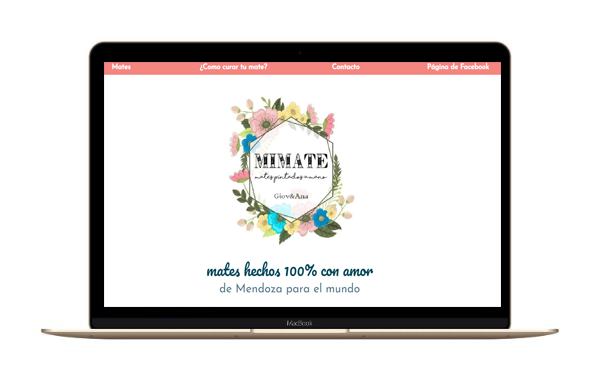
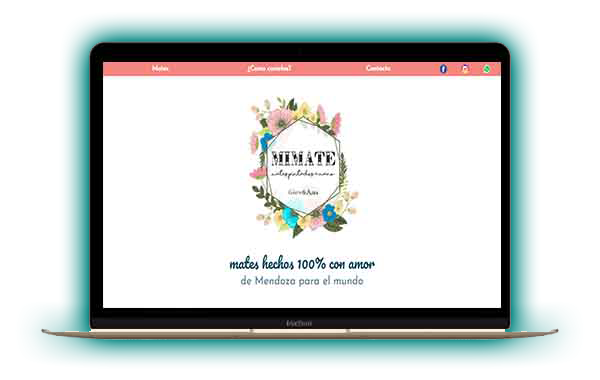
cambiado el tema a azul. arregladas imagenes de mis trabajos. y otras cosas de css

Changed region(s): [[0.06, 0.0289, 0.93, 0.9553], [0.36, 0.2605, 0.6, 0.6368], [0.33, 0.6658, 0.63, 0.7816]]

diff --git a/estilos.css b/estilos.css
@@ -3,7 +3,11 @@
 body{
     /*siempre es bueno poner el margin 0 al principio para quitar los amrgenes que vienen por defecto que nos ocupan lugar al dope*/
     margin: 0;
-    font-family: 'Poppins', sans-serif;
+    font-family: 'Baloo Chettan 2', cursive;
+    font-size: 19px;
+    background-color: rgb(11, 21, 49);
+    color: rgb(103, 171, 202);
+    
 }
 
 header .contenedor{
@@ -19,13 +23,16 @@ header .contenedor{
 /*debo llamar a la etiqueta padre para ordenar los elementos de la lista. le tengo que poner clase al ul, el display flex lo que hizo fue poner un item al aldo del otro en vez de uno arriba del otro.*/
 
 
-.lista-menu {
-    color: #001;
+.lista-menu a {
+    color: rgb(4, 42, 114);
+   
 }
+
+
 
 header ul {
     display: flex;
-    color: white;
+    /*color: white;*/
     text-decoration: solid;  
 }
 
@@ -79,6 +86,8 @@ header {
     background-size: cover;
   
 
+
+   
 }
 
 h1 {
@@ -141,6 +150,7 @@ h3 {
     text-align: center;
     font-size: 55px;
     font-weight: bold;
+    color: rgb(79, 160, 235);
     /*margin-top: 100px;    */
 }
 
@@ -208,7 +218,7 @@ h3 {
     /*en google pongo linear gradient css y me sale para armarlo ahi*/
     background: linear-gradient(to top, #0D0D0D,#1D64F2);
     /*en google pongo box shadow generator y lo configuro ahi*/
-    box-shadow: 0 12px 30px 0 #242326;
+    box-shadow: 0 12px 30px 0 #5b09ff;
 }
 
 .ondas {
@@ -217,6 +227,7 @@ h3 {
     /*como sabe la imagen wave donde es el 0? porque le pose position : relative a la clase servicio que es la que tiene la position relative*/
     left: 0;
     bottom: 0;
+    width: 100%;
 
 }
 
@@ -285,10 +296,7 @@ span {
 
 /*.........................SAECCION BLOG.............................*/
 
-#blog {
 
-    background: #F9FAFC;
-}
 
 #blog .contenedor-publicaciones {
 
@@ -300,7 +308,7 @@ span {
 
     width: 30%;
     /*recordar que la sombre la puedo generar en la pag*/
-    box-shadow: 1px 1px 14px #ccc;
+    box-shadow: 1px 1px 14px rgb(75, 62, 255);
 }
 
 #blog img {
@@ -308,8 +316,10 @@ span {
 }
 
 #blog .contenido {
-    background: #FFF;
+    background: rgb(8, 87, 133);
     padding: 20px;
+    height: 92%;
+    color: white;
 }
 
 #blog h4 {
@@ -319,7 +329,7 @@ span {
 }
 
 #blog p {
-    color: #5A6169;
+    color: rgb(142, 164, 189);
     line-height: 24px;
     font-size: 16px;
 }
@@ -331,7 +341,7 @@ span {
 /*...............................SECCION QUE ESPERAS....................................*/
 
 #que-esperas{
-    background: linear-gradient(#0D0D0D, #1D64F2);
+    background: linear-gradient(rgb(69, 128, 255), rgb(16, 79, 206));
     text-align: center;
     /*aqui le pongo 50px de espacio arriba y abajo. 0 a los costados*/
     padding: 50px 0;
@@ -356,6 +366,7 @@ span {
     width: 77%;
     /*como centrarlo??? margin: auto*/
     margin: auto;
+    
  }
 
  input[type="text"], input[type="email"] {
@@ -365,6 +376,8 @@ span {
      border: 0;
      border-bottom: 2px solid #5cb8ff;
      font-size: 17px;
+     background-color: transparent;
+     
  } 
 
  textarea {
@@ -374,6 +387,8 @@ span {
      font-size: 17px;
      margin-bottom: 40px;
      width: 100%;
+     background-color: transparent;
+    
  }
 
  /*EL BOTON LO AGREGO EN LA PARTE DE BOTONES*/
@@ -381,9 +396,11 @@ span {
  #contacto input[type="submit"] {
      width: 166px;
      margin: auto;
+     
 
  }
 
+ 
   .contacto-info {
 
     display: flex;
@@ -408,7 +425,7 @@ span {
 
    footer {
 
-    background: #2f2f2f;
+    background: #0d3b6e;
     padding: 40px 0;
     text-align: center;
     margin-top: 40px;
@@ -487,6 +504,11 @@ span {
 
    
 
+    .lista-menu a {
+        color: rgb(255, 255, 255);
+    }
+
+
     .menu-icon {
         /*es lo contrario al display none*/
         display: block;
@@ -501,14 +523,15 @@ span {
         position: absolute;
         top: 83px;
         left: 0;
-        height: 350px;
-        background: #4a8abb;
+        height: 380px;
+        background: rgb(3, 125, 196);
         width: 100%;
         display: none;
     }
 
     header nav ul {
         flex-direction: column;
+        color: white;
     }
 
     header nav ul li {
@@ -618,7 +641,7 @@ span {
     }
 
     .lista-menu li a {
-        color: white;
+        color: rgb(245, 247, 250);
     }
 
     .contacto-info {
@@ -647,7 +670,7 @@ span {
     
 
     header h1 {
-        font-size: 35px;
+        font-size: 44px;
         margin-bottom: 25px;
         padding-bottom: 113px;
         -webkit-text-stroke: 1px royalblue;
@@ -662,11 +685,16 @@ span {
 
         width: 30px;
         height: 30px;
+        top: 86%;
     }
 
     #sobre-mi img {
 
         height: 250px;
+    }
+
+    .lista-menu li {
+        font-size: 14px;
     }
 
 

diff --git a/index.html b/index.html
@@ -10,7 +10,7 @@
     <link rel="stylesheet" href="estilos.css">
      <!--rel es la relación. stylesheet significa hoja de estilo, esa es su relación. y donde está? en href-->
 
-     <link href="https://fonts.googleapis.com/css?family=Poppins&display=swap" rel="stylesheet">
+     <link href="https://fonts.googleapis.com/css2?family=Baloo+Chettan+2&display=swap" rel="stylesheet">
      <!--la fuente la descargo de google font. ahi me da los codigos para pegar en el html y en el css-->
      <link href="https://fonts.googleapis.com/css?family=Lobster+Two&display=swap" rel="stylesheet">
      <link href="https://fonts.googleapis.com/css?family=Baloo+Bhai&display=swap" rel="stylesheet">
@@ -32,7 +32,7 @@
         <div class="menu">
             <div class="contenedor" >
                 <p class="logo"><a href="#top-id" style="color: white;">Gino Pietrobon</a></p>
-                <body link="#000" vlink="#000" alink="#000"></body>
+                <body link="rgb(0, 62, 179)" vlink="rgb(0, 62, 185)" alink="rgb(0, 62, 195)"></body>
 
                 <!--este es el icono para cuando achico la pantalla para moviles-->
                 <img class="menu-icon" src="imagenes/rayitas.png"></img>
@@ -214,8 +214,9 @@
 
                 <div class="owl-carousel owl-theme">
                     <div class="item"><img src="imagenes/ejemplos trabajos/mimate.png"><p>Mimate Web</p></div>
-                    <div class="item"><img src="imagenes/ejemplos trabajos/ej02.jpg"><p>Ejemplo 01</p></div>
-                    <div class="item"><img src="imagenes/ejemplos trabajos/ej01.jpg"><p>Ejemplo 02</p></div>
+                    <div class="item"><img src="imagenes/ejemplos trabajos/powersis.png"><p>Powersis tecnología</p></div>
+                    <div class="item"><img src="imagenes/ejemplos trabajos/stepy.png"><p>Stepy</p></div>
+                    <div class="item"><img src="imagenes/ejemplos trabajos/ginitopage.png"><p>¡Esta pag!</p></div>
                     
                     
                 </div>
@@ -238,7 +239,7 @@
                         <ul>
                             <li><img src="imagenes/velocidad.png"></li>
                             <li>Velocidad</li>
-                            <li>MConsidero la importancia de que tu sitio cargue velozmente, optimizando el valioso tiempo de los usuarios.</li>
+                            <li>Considero la importancia de que tu sitio cargue velozmente, optimizando el valioso tiempo de los usuarios.</li>
                         </ul>
                     </div>
 
@@ -415,23 +416,26 @@
                 $(".menu").css({"position":"fixed"});
                 $(".menu").css({"width":"100%"});
                 $(".menu").css({"top":"0"});
-                $(".menu").css({"background":"#fff"});
-                $(".menu a").css({"color":"#000"});
-                $(".logo a").css({"color":"#000"});
+                $(".menu").css({"background":"rgb(3, 125, 196)"});
+                $(".menu a").css({"color":"#fff"});
+                $(".logo a").css({"color":"#fff"});
                 $(".menu").css({"box-shadow":"rgba(0,0,0,0.22) 6px 1px 1px"});
                 //el z index viene por defecto en 1, pero mientras mas grande el num mas por delante estara el elemento
                 $(".menu").css({"z-index":"100"});
 
 
-            }   else {
+            }
+            
+            else {
                 //cuando no hay scroll o scroll es para arriba y no para abajo
                 $(".menu").css({"position":"relative"});
                 $(".menu").css({"background":"transparent"});
                 $(".menu").css({"box-shadow":"0 0 0"});
-                
-                $(".menu a").css({"color":"#000"});
-                $(".logo a").css({"color":"#fff"});
 
+                                
+                $(".menu a").css({"color":"rgb(4, 42, 114)"});
+                $(".logo a").css({"color":"#fff"});
+                        
             }
 
 
@@ -442,13 +446,18 @@
 
         $('.menu-icon').click(function(){
             //SlideDown baja el menu, SlideUp levanta el menu, SlideToggle es una combinacion
-            $('header nav').slideToggle();    
-        })
+            $('header nav').slideToggle(); 
 
-        $('.menu a').click(function(){
+            $('.menu a').click(function(){
             $('header nav').slideUp();
+            })
 
         })
+
+        //$('.menu a').click(function(){
+          //  $('header nav').slideUp();
+
+        //})
 
         })
 
